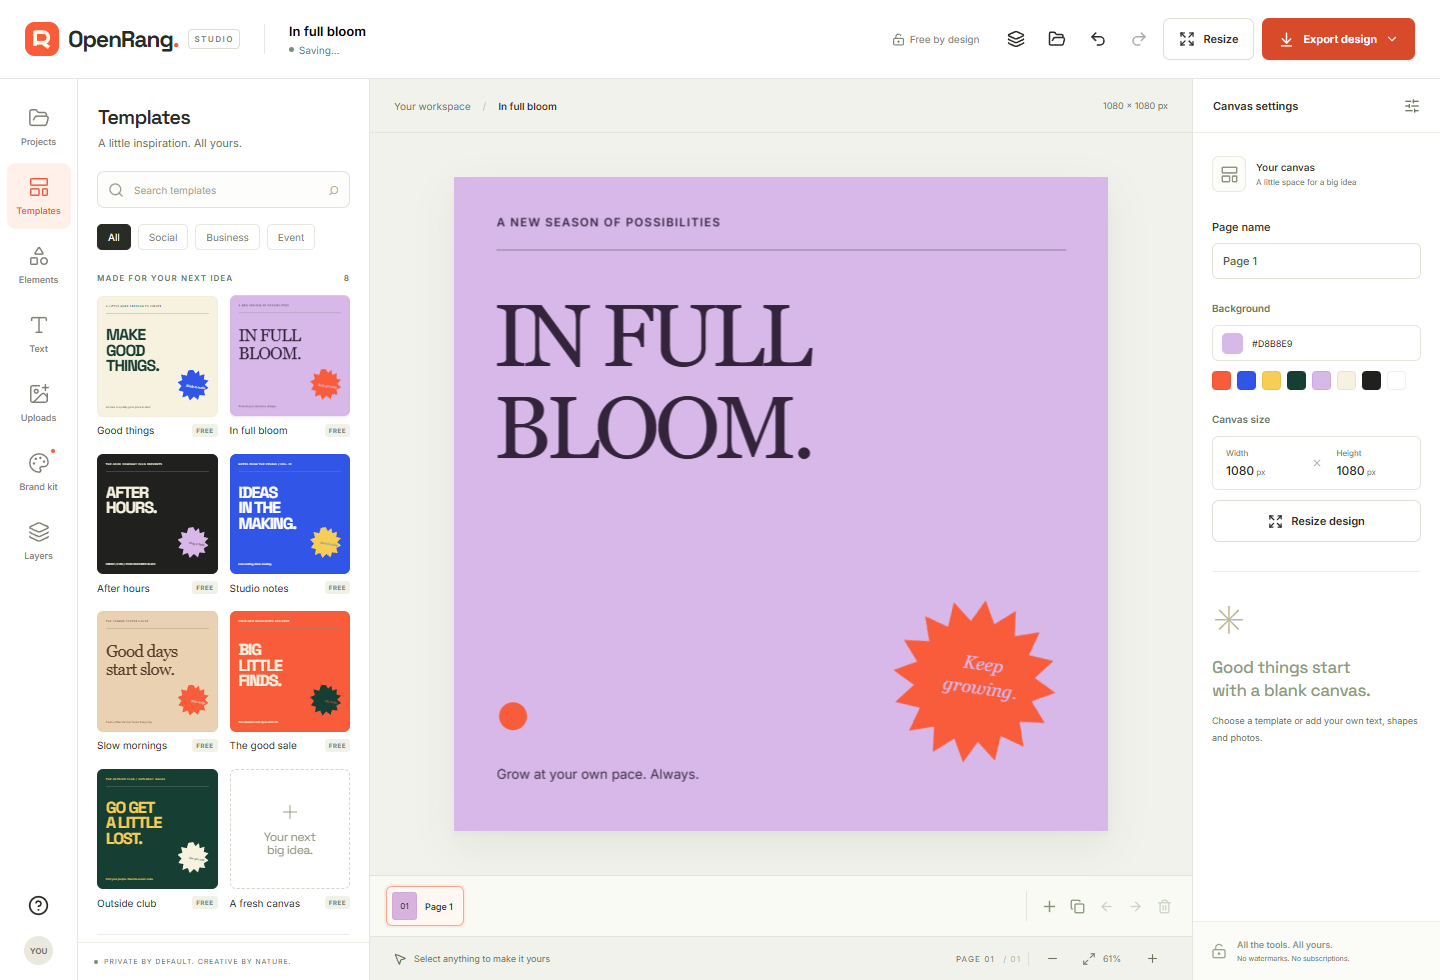
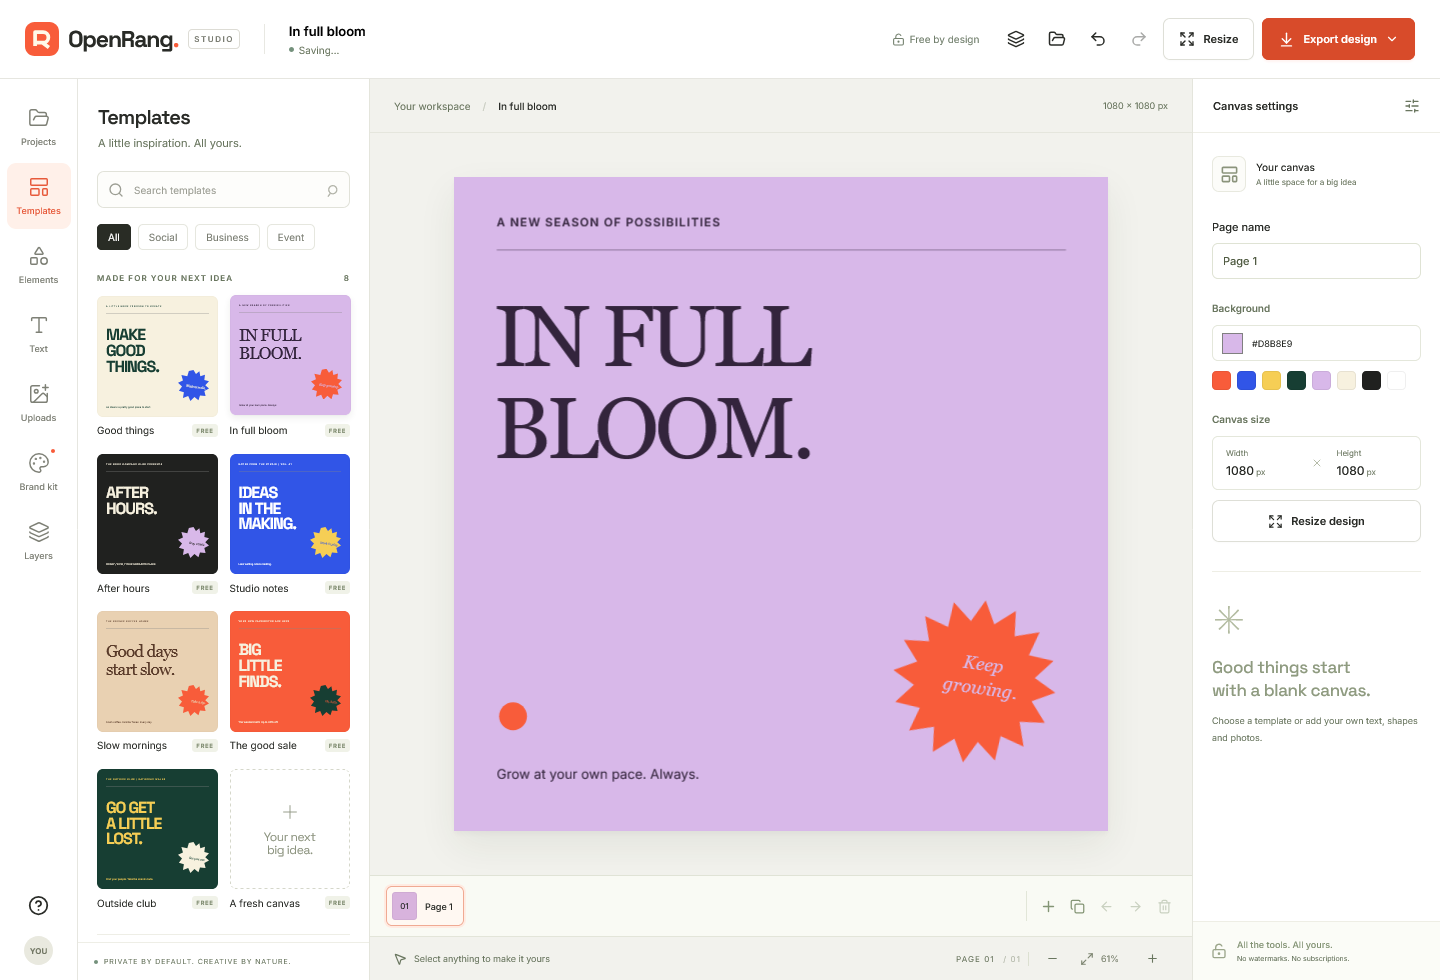
Preserve selection locks and release AI memory before encoding

diff --git a/src/editor.ts b/src/editor.ts
@@ -31,7 +31,17 @@ FabricObject.ownDefaults.cornerSize = 10;
 FabricObject.ownDefaults.transparentCorners = false;
 FabricObject.ownDefaults.originX = "left";
 FabricObject.ownDefaults.originY = "top";
-FabricObject.customProperties = ["name"];
+FabricObject.customProperties = [
+  "name",
+  "lockMovementX",
+  "lockMovementY",
+  "lockScalingX",
+  "lockScalingY",
+  "lockRotation",
+  "hasControls",
+  "selectable",
+  "evented",
+];
 function countElements(objects: FabricObject[]): number {
   return objects.reduce(
     (n, o) => n + (o instanceof Group ? countElements(o.getObjects()) : 1),
@@ -100,7 +110,6 @@ export class Editor {
   private autoFit = true;
   private worker?: Worker;
   private cancelInference?: () => void;
-  private workerIdle?: ReturnType<typeof setTimeout>;
   private clipboard: FabricObject[] = [];
   constructor(
     element: HTMLCanvasElement,
@@ -853,7 +862,6 @@ export class Editor {
         throw Error(
           "On-device AI needs a browser with Web Workers. Try a recent Chrome, Edge or Firefox.",
         );
-      clearTimeout(this.workerIdle);
       this.worker ??= new Worker(
         new URL("./background.worker.ts", import.meta.url),
         { type: "module" },
@@ -906,6 +914,8 @@ export class Editor {
           if (event.data.progress) progress(event.data.progress);
           else {
             finish();
+            worker.terminate();
+            this.worker = undefined;
             event.data.error
               ? reject(Error(event.data.error))
               : resolve(event.data);
@@ -995,10 +1005,8 @@ export class Editor {
     } finally {
       this.busy = false;
       this.emit();
-      this.workerIdle = setTimeout(() => {
-        this.worker?.terminate();
-        this.worker = undefined;
-      }, 90000);
+      this.worker?.terminate();
+      this.worker = undefined;
     }
   }
   cancelBackground() {
@@ -1007,7 +1015,6 @@ export class Editor {
   async dispose() {
     this.disposed = true;
     clearTimeout(this.timer);
-    clearTimeout(this.workerIdle);
     this.cancelInference?.();
     this.worker?.terminate();
     await this.canvas.dispose();

diff --git a/tests/selection.spec.ts b/tests/selection.spec.ts
@@ -20,14 +20,24 @@ test("multi-selection appearance and locks persist as document properties", asyn
   await page.getByLabel("File type").selectOption("json");
   const downloaded = page.waitForEvent("download");
   await page.getByRole("button", { name: "Download project" }).click();
-  const doc = JSON.parse(
-    await readFile((await (await downloaded).path())!, "utf8"),
-  );
+  const bytes = await readFile((await (await downloaded).path())!);
+  const doc = JSON.parse(bytes.toString());
   const objects = doc.pages[0].scene.objects;
-  expect(
-    objects.every(
-      (o: { opacity: number; fill: string; lockMovementX: boolean }) =>
-        o.opacity === 0.5 && o.fill === "#112233" && o.lockMovementX,
-    ),
-  ).toBe(true);
+  for (const object of objects)
+    expect(object).toMatchObject({
+      opacity: 0.5,
+      fill: "#112233",
+      lockMovementX: true,
+    });
+  await page
+    .locator('input[accept=".json"]')
+    .setInputFiles({
+      name: "locked.json",
+      mimeType: "application/json",
+      buffer: bytes,
+    });
+  await expect(page.getByRole("status")).toContainText("Project opened");
+  await expect(
+    page.getByRole("button", { name: "Unlock layer 1", exact: true }),
+  ).toBeVisible();
 });

diff --git a/docs/verification.md b/docs/verification.md
@@ -1,19 +1,30 @@
-# Release verification — 22 October 2026
+# Release verification — 0.2.0
 
-Verified locally on Windows with installed Google Chrome:
+The release workflow builds the actual production app, enforces bundle budgets and exercises 15 browser scenarios in both Chromium and Firefox. See the [current workflow results](https://github.com/7se7en72025/openrang/actions/workflows/check.yml) for the exact source commit and run status.
 
-- TypeScript check and Vite production build.
-- Seven Playwright tests against the built production bundle, including the real IMG.LY model and photo.
-- Text editing, duplication, undo, custom resize, project download/import, reload restoration.
-- PNG file signature, logical dimensions and transparent corner pixel at 2× resolution.
-- SVG text content and PDF file signature.
-- Image project roundtrip and persisted brand-kit name.
-- Rejection of invalid projects, unknown Fabric classes and remote image URLs without losing the current design.
-- Storage quota failure is shown accurately while editable project download remains available.
-- Desktop/mobile screenshots and viewport overflow check.
+## Data and history checks
 
-Background-removal verification checks both transparent and solid pixels in actual inference output. This verifies the integration works on this machine; it does not establish segmentation quality for all images or performance on phones.
+Five Node tests cover version 1 migration, shared-image packing, image/brand validation, coalesced history, undo branches and unreferenced-asset cleanup. A one-million-character image string is retained once across 50 history states.
 
-The final application source also passed [GitHub-hosted Chromium CI](https://github.com/7se7en72025/openrang/actions/runs/39756062842), including a clean npm install, production build and standard browser suite. The network/model test was verified separately on the local production bundle.
+## Production browser checks
 
-Safari, Firefox and mobile hardware were not checked. See README for feature limits.
+- Text editing, duplication, undo, resizing, file import/export and reload restoration.
+- Correct PNG dimensions, transparent pixels, SVG text, JPEG and PDF file signatures.
+- Multi-page PDF page count, page ordering, names and undoing page deletion.
+- Crop offsets, photo filters, flipping and shared images after project-file roundtrips.
+- Group/ungroup geometry, multi-selection appearance and persisted lock flags.
+- A saved-design library, separate copies, recoverable Trash and opening the last project after reload.
+- Brand-kit restore and manual zoom without changing document dimensions.
+- Storage quota failure, rejected remote images, invalid classes and preservation of the current design.
+- Desktop and 390 px responsive layouts.
+- Real model inference, with both foreground and transparent output pixels, and no missing local runtime assets.
+- Opening/closing Help during inference and cancellation without losing the original image.
+- Offline reload, editing, saving and another offline reload after service-worker readiness.
+
+Local checks use installed Chrome and Playwright Firefox. On this resource-constrained Windows machine, Chrome's headless test uses software rendering; CI uses default bundled Chromium. Temporary test profiles were placed on a drive with sufficient space. These are test-environment settings, not requirements imposed on people using the editor.
+
+## Scope and limits
+
+Real inference validates this integration, not segmentation quality for every photo. No foreground detection replaces the original with an empty result; failure, cancellation and timeout leave it recoverable.
+
+Performance figures and automated budgets are documented in [performance.md](performance.md). Safari and real mobile hardware have not been verified. PDF remains raster RGB and offline AI/PDF may require an initial online use. See README for the supported local workflow and remaining product boundaries.

diff --git a/README.md b/README.md
@@ -53,7 +53,7 @@ Trash is recoverable. Open another design before moving the currently open desig
 
 ## Free Pro-style tools
 
-**Background removal:** uses [IMG.LY](https://github.com/imgly/background-removal-js) and CPU ONNX inference. The model/runtime assets download from IMG.LY on first use (tens of MB); your image is processed locally. Inference runs in a worker, supports cancellation and releases its idle runtime. Results depend on the image and device. Empty masks preserve the original photo and show an error.
+**Background removal:** uses [IMG.LY](https://github.com/imgly/background-removal-js) and CPU ONNX inference. The model/runtime assets download from IMG.LY on first use (tens of MB); your image is processed locally. Inference runs in a cancellable worker that is released after each operation, freeing model memory before encoding the final image. Results depend on the image and device. Empty masks preserve the original photo and show an error.
 
 **Resize:** custom sizes with proportional fit-and-center scaling. This does not automatically redesign a composition.
 

diff --git a/docs/performance.md b/docs/performance.md
@@ -18,4 +18,4 @@ History interns image strings once and retains small document snapshots with ass
 
 Typing and sliders coalesce nearby changes, local persistence is debounced, library listings load metadata rather than all full-size documents, and imports stage objects before replacing the current canvas. PNG/JPEG export uses a Blob rather than building an extra base64 string.
 
-AI inference lives in a dedicated worker and uses transferable pixel buffers. The real-model browser test opens and closes Help during inference to check that controls remain usable. Cancelling terminates the worker; an idle worker is released after 90 seconds.
+AI inference lives in a dedicated worker and uses transferable pixel buffers. The real-model browser test opens and closes Help during inference to check that controls remain usable. The worker is terminated after each result, error or cancellation, releasing model memory before the main thread encodes the final image. This favors lower peak memory over keeping a warm model between edits.

diff --git a/AGENTS.md b/AGENTS.md
@@ -21,3 +21,7 @@ Use original templates and permitted fonts/assets. Do not claim full Canva Pro c
 
 Run meaningful checks for project loading/saving, undo, resize and export. Test the actual editor in a browser before calling it ready.
 
+The editor now uses version 2 documents with shared assets and multiple pages. Preserve version 1 imports, independent local project identities, atomic saves, recoverable Trash, and lock/group properties through export/import.
+
+Run `npm run test:unit`, `npm run build`, `npm run check:bundle` and relevant production Playwright checks. CI exercises both Chromium and Firefox, offline reload and real model inference. Do not weaken the performance budgets or replace inference tests with mocked success.
+
